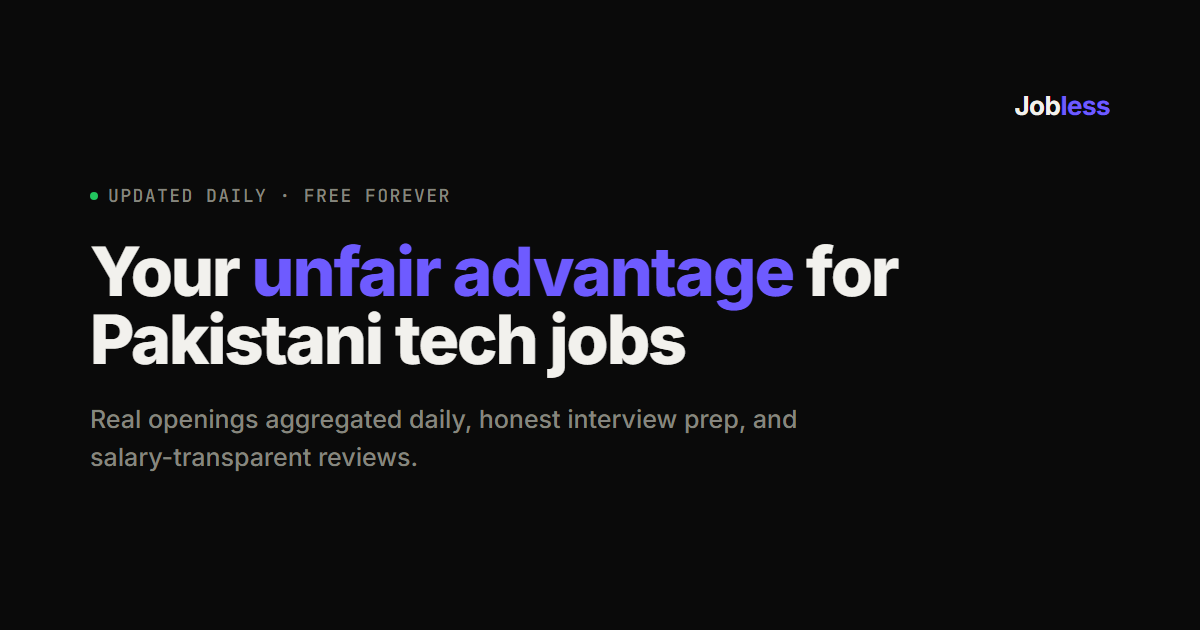
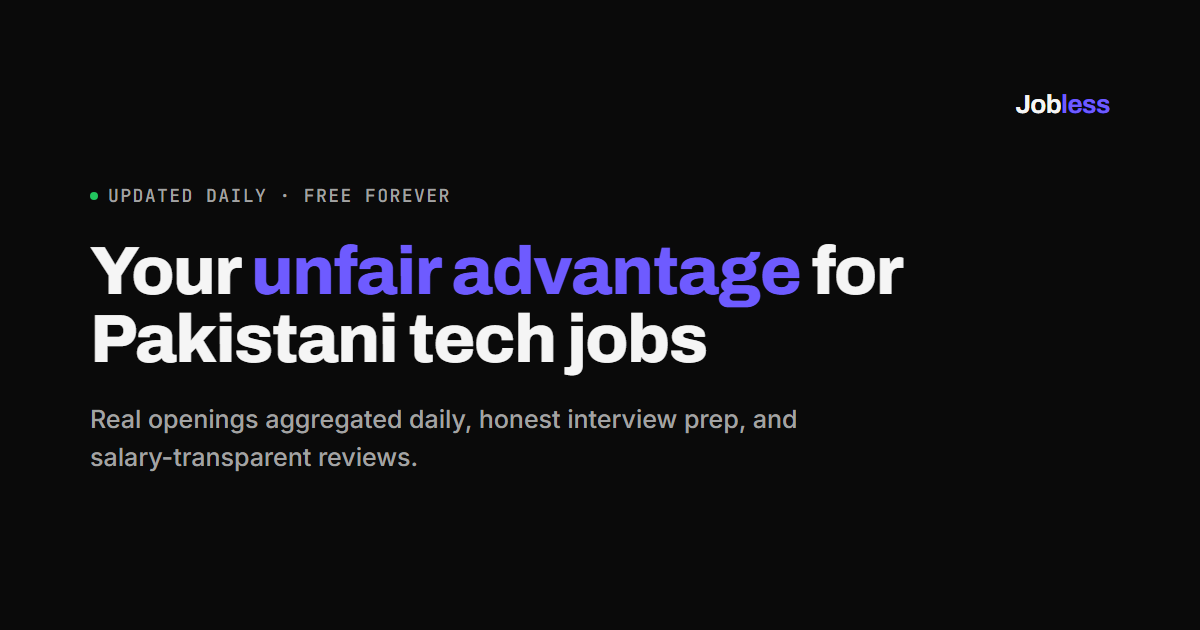
Adapt eden.so's elevation/shadow/type system into Jobless (#70)
Deep-dived eden.so's actual compiled CSS (not screenshots-only) to pull
real token values, then adapted the discipline behind them - stepped
gray surfaces, soft multi-layer shadows, generous radius, and a
display/body font pairing - into Jobless's own design, keeping
Jobless's own violet accent and the list/panel structures from the
previous redesign pass rather than reverting them.

Tokens (frontend/style.css :root):
- Surfaces step up from the page background again instead of sitting
  flush with it: --bg 0a0a0a (unchanged, already matched eden.so's own
  page color) -> --bg-elevated #111111 -> --card-bg #141414 ->
  --surface #1a1a1a. Text grays brightened to match eden.so's own
  (--muted #a3a3a3, new --muted-dim #737373 for de-emphasized text).
- --shadow-sm/md/lg/glow restored to real soft, deep, low-opacity
  multi-layer values (card/feature-card/panel shadows, one with a 1px
  inset top highlight) instead of `none` - every existing
  `box-shadow: var(--shadow-sm)` call site regains depth for free.
- Radius loosened from the tight 4-8px "precise" scale back to a
  generous one: 16-24px on cards, pill stays pill on buttons.
- New --font-display: Archivo, applied via a single `h1, h2 { }` rule
  so every heading site-wide picks it up without per-component edits.
  Inter stays for body/UI, JetBrains Mono for labels/metadata.
- Google Fonts link updated in all 13 hand-written pages plus
  export_pages.py's shared template, so generated job/company pages
[…]

diff --git a/frontend/style.css b/frontend/style.css
@@ -1,16 +1,21 @@
-/* Strict 3-color system: true-black, off-white, and one surgical accent -
-   no gradients, no per-category rainbow. Depth and separation come from
-   hairline alpha borders and flat background-contrast steps, not shadows
-   or filled "card" surfaces - see the --shadow-* tokens below, neutralized
-   to `none` so every existing `box-shadow: var(--shadow-sm)` call site
-   goes flat for free without needing to touch each one individually. */
+/* Stepped-gray elevation system, adapted from eden.so's actual compiled
+   CSS (verified against their source, not guessed from screenshots) -
+   surfaces step up in lightness from the page background rather than
+   sitting flush with it, and depth comes from soft multi-layer shadows
+   plus a 1px inset top highlight, not from hairline borders alone. Radius
+   is generous (16-24px on cards, full pill on buttons) rather than tight.
+   Accent stays Jobless's own violet (real brand identity, not eden.so's -
+   their actual "accent" token is just off-white) but is used with the
+   same restraint: most surfaces stay monochrome gray, color is reserved
+   for things that have earned it. */
 :root {
   color-scheme: dark;
   --bg: #0a0a0a;
-  --bg-elevated: #0a0a0a;
-  --card-bg: #0a0a0a;
-  --fg: #f2f1ed;
-  --muted: #86867f;
+  --bg-elevated: #111111;
+  --card-bg: #141414;
+  --fg: #f5f5f5;
+  --muted: #a3a3a3;
+  --muted-dim: #737373;
   --border: rgba(255, 255, 255, 0.08);
   --border-strong: rgba(255, 255, 255, 0.18);
   --accent: #6e5bff;
@@ -18,25 +23,22 @@
   --accent-dark: #4f3fd1;
   --accent-soft: rgba(110, 91, 255, 0.12);
 
-  /* Tight, editorial radii - small enough to read as "precise" rather than
-     "soft/bubbly". 999px (pill) is still used sparingly for the handful of
-     pill-shaped controls (chips, the load-more button). */
-  --radius-sm: 0.25rem;
-  --radius: 0.375rem;
-  --radius-lg: 0.5rem;
-  --radius-xl: 0.75rem;
+  --radius-sm: 0.5rem;
+  --radius: 0.875rem;
+  --radius-lg: 1.25rem;
+  --radius-xl: 1.5rem;
 
-  --shadow-sm: none;
-  --shadow-md: none;
-  --shadow-lg: none;
-  --shadow-glow: none;
+  --shadow-sm: 0 2px 10px rgba(0, 0, 0, 0.35), 0 18px 40px -22px rgba(0, 0, 0, 0.55);
+  --shadow-md: 0 28px 60px -22px rgba(0, 0, 0, 0.7), 0 3px 10px rgba(0, 0, 0, 0.28);
+  --shadow-lg: inset 0 1px 0 rgba(255, 255, 255, 0.05), 0 30px 80px -40px rgba(0, 0, 0, 0.9);
+  --shadow-glow: 0 8px 30px rgba(110, 91, 255, 0.2);
 
-  /* One step up from --bg, for a surface nested inside a bordered
-     container - subtle enough that hairline borders (not fill color) do
-     the actual work of separating sections. */
-  --surface: #111110;
+  /* One step up from --card-bg, for a surface nested inside an already-
+     elevated container (hover fills, inputs). */
+  --surface: #1a1a1a;
 
   --font-sans: "Inter", -apple-system, BlinkMacSystemFont, "Segoe UI", Roboto, sans-serif;
+  --font-display: "Archivo", var(--font-sans);
   --font-mono: "JetBrains Mono", ui-monospace, "SFMono-Regular", Menlo, monospace;
 
   /* Snappy, slightly overshooting spring curve for every hover/interaction
@@ -262,6 +264,13 @@ header {
   max-width: 720px;
   margin: 0 auto;
   padding: 0 0 1rem;
+}
+
+/* Archivo for every display headline, Inter stays for body/UI copy -
+   eden.so pairs the same two families the same way. */
+h1,
+h2 {
+  font-family: var(--font-display);
 }
 
 h1 {
@@ -558,8 +567,10 @@ h1 {
    supporting context" rather than three interchangeable tiles. */
 .stats-cards {
   display: flex;
+  background: var(--card-bg);
   border: 1px solid var(--border);
   border-radius: var(--radius-lg);
+  box-shadow: var(--shadow-sm);
   overflow: hidden;
 }
 
@@ -680,17 +691,22 @@ h1 {
 
 /* The Prep hub page (frontend/prep.html) - a dense, numbered editorial
    list rather than a 3/4-column grid of boxed topic cards. No per-item
-   background/border/shadow at all; hairline rules between rows and a
-   monospace index number do the work a bordered card used to do. The
-   first and last rows close the list with their own top/bottom rule, so
-   the whole thing reads as one continuous table of contents rather than a
-   stack of separate boxes. */
+   background/border/shadow; hairline rules between rows and a monospace
+   index number do the work a bordered card used to do. The rows sit
+   inside one elevated panel (card-bg + soft shadow) rather than being
+   individually boxed - eden.so's "flat rows inside one elevated panel"
+   pattern applied to the list structure from the previous pass. */
 .prep-hub-grid {
   max-width: 44rem;
   margin: 0 auto;
   display: flex;
   flex-direction: column;
   counter-reset: prep-topic;
+  background: var(--card-bg);
+  border: 1px solid var(--border);
+  border-radius: var(--radius-lg);
+  padding: 0 1.25rem;
+  box-shadow: var(--shadow-sm);
 }
 
 .prep-hub-card {
@@ -707,8 +723,8 @@ h1 {
   transition: background-color 0.2s var(--ease-spring);
 }
 
-.prep-hub-grid .prep-hub-card:last-child {
-  border-bottom: 1px solid var(--border);
+.prep-hub-card:first-child {
+  border-top: none;
 }
 
 .prep-hub-card::before {
@@ -1470,14 +1486,21 @@ select {
 .job-list {
   list-style: none;
   margin: 0;
-  padding: 0;
-  border-top: 1px solid var(--border);
+  padding: 0 1.25rem;
+  background: var(--card-bg);
+  border: 1px solid var(--border);
+  border-radius: var(--radius-lg);
+  box-shadow: var(--shadow-sm);
 }
 
 .job-card {
   border-bottom: 1px solid var(--border);
   padding: 1.1rem 0.25rem;
   transition: background-color 0.2s var(--ease-spring);
+}
+
+.job-card:last-child {
+  border-bottom: none;
 }
 
 .job-card:hover {

diff --git a/frontend/prep/by-role.html b/frontend/prep/by-role.html
@@ -19,7 +19,7 @@
   <link rel="icon" type="image/svg+xml" href="../favicon.svg" />
   <link rel="preconnect" href="https://fonts.googleapis.com" />
   <link rel="preconnect" href="https://fonts.gstatic.com" crossorigin />
-  <link href="https://fonts.googleapis.com/css2?family=Inter:wght@400;500;600;700;800&family=JetBrains+Mono:wght@400;500;600&display=swap" rel="stylesheet" />
+  <link href="https://fonts.googleapis.com/css2?family=Archivo:wght@600;700;800&family=Inter:wght@400;500;600;700;800&family=JetBrains+Mono:wght@400;500;600&display=swap" rel="stylesheet" />
   <link rel="stylesheet" href="../style.css" />
 </head>
 <body>

diff --git a/frontend/prep/cold-email.html b/frontend/prep/cold-email.html
@@ -19,7 +19,7 @@
   <link rel="icon" type="image/svg+xml" href="../favicon.svg" />
   <link rel="preconnect" href="https://fonts.googleapis.com" />
   <link rel="preconnect" href="https://fonts.gstatic.com" crossorigin />
-  <link href="https://fonts.googleapis.com/css2?family=Inter:wght@400;500;600;700;800&family=JetBrains+Mono:wght@400;500;600&display=swap" rel="stylesheet" />
+  <link href="https://fonts.googleapis.com/css2?family=Archivo:wght@600;700;800&family=Inter:wght@400;500;600;700;800&family=JetBrains+Mono:wght@400;500;600&display=swap" rel="stylesheet" />
   <link rel="stylesheet" href="../style.css" />
 </head>
 <body>

diff --git a/frontend/prep/companies.html b/frontend/prep/companies.html
@@ -19,7 +19,7 @@
   <link rel="icon" type="image/svg+xml" href="../favicon.svg" />
   <link rel="preconnect" href="https://fonts.googleapis.com" />
   <link rel="preconnect" href="https://fonts.gstatic.com" crossorigin />
-  <link href="https://fonts.googleapis.com/css2?family=Inter:wght@400;500;600;700;800&family=JetBrains+Mono:wght@400;500;600&display=swap" rel="stylesheet" />
+  <link href="https://fonts.googleapis.com/css2?family=Archivo:wght@600;700;800&family=Inter:wght@400;500;600;700;800&family=JetBrains+Mono:wght@400;500;600&display=swap" rel="stylesheet" />
   <link rel="stylesheet" href="../style.css" />
 </head>
 <body>

diff --git a/frontend/prep/dsa.html b/frontend/prep/dsa.html
@@ -19,7 +19,7 @@
   <link rel="icon" type="image/svg+xml" href="../favicon.svg" />
   <link rel="preconnect" href="https://fonts.googleapis.com" />
   <link rel="preconnect" href="https://fonts.gstatic.com" crossorigin />
-  <link href="https://fonts.googleapis.com/css2?family=Inter:wght@400;500;600;700;800&family=JetBrains+Mono:wght@400;500;600&display=swap" rel="stylesheet" />
+  <link href="https://fonts.googleapis.com/css2?family=Archivo:wght@600;700;800&family=Inter:wght@400;500;600;700;800&family=JetBrains+Mono:wght@400;500;600&display=swap" rel="stylesheet" />
   <link rel="stylesheet" href="../style.css" />
 </head>
 <body>

diff --git a/frontend/prep/hr-questions.html b/frontend/prep/hr-questions.html
@@ -19,7 +19,7 @@
   <link rel="icon" type="image/svg+xml" href="../favicon.svg" />
   <link rel="preconnect" href="https://fonts.googleapis.com" />
   <link rel="preconnect" href="https://fonts.gstatic.com" crossorigin />
-  <link href="https://fonts.googleapis.com/css2?family=Inter:wght@400;500;600;700;800&family=JetBrains+Mono:wght@400;500;600&display=swap" rel="stylesheet" />
+  <link href="https://fonts.googleapis.com/css2?family=Archivo:wght@600;700;800&family=Inter:wght@400;500;600;700;800&family=JetBrains+Mono:wght@400;500;600&display=swap" rel="stylesheet" />
   <link rel="stylesheet" href="../style.css" />
 </head>
 <body>

diff --git a/frontend/prep/notes.html b/frontend/prep/notes.html
@@ -19,7 +19,7 @@
   <link rel="icon" type="image/svg+xml" href="../favicon.svg" />
   <link rel="preconnect" href="https://fonts.googleapis.com" />
   <link rel="preconnect" href="https://fonts.gstatic.com" crossorigin />
-  <link href="https://fonts.googleapis.com/css2?family=Inter:wght@400;500;600;700;800&family=JetBrains+Mono:wght@400;500;600&display=swap" rel="stylesheet" />
+  <link href="https://fonts.googleapis.com/css2?family=Archivo:wght@600;700;800&family=Inter:wght@400;500;600;700;800&family=JetBrains+Mono:wght@400;500;600&display=swap" rel="stylesheet" />
   <link rel="stylesheet" href="../style.css" />
 </head>
 <body>

diff --git a/frontend/prep/resume.html b/frontend/prep/resume.html
@@ -19,7 +19,7 @@
   <link rel="icon" type="image/svg+xml" href="../favicon.svg" />
   <link rel="preconnect" href="https://fonts.googleapis.com" />
   <link rel="preconnect" href="https://fonts.gstatic.com" crossorigin />
-  <link href="https://fonts.googleapis.com/css2?family=Inter:wght@400;500;600;700;800&family=JetBrains+Mono:wght@400;500;600&display=swap" rel="stylesheet" />
+  <link href="https://fonts.googleapis.com/css2?family=Archivo:wght@600;700;800&family=Inter:wght@400;500;600;700;800&family=JetBrains+Mono:wght@400;500;600&display=swap" rel="stylesheet" />
   <link rel="stylesheet" href="../style.css" />
 </head>
 <body>

diff --git a/frontend/prep/sql.html b/frontend/prep/sql.html
@@ -19,7 +19,7 @@
   <link rel="icon" type="image/svg+xml" href="../favicon.svg" />
   <link rel="preconnect" href="https://fonts.googleapis.com" />
   <link rel="preconnect" href="https://fonts.gstatic.com" crossorigin />
-  <link href="https://fonts.googleapis.com/css2?family=Inter:wght@400;500;600;700;800&family=JetBrains+Mono:wght@400;500;600&display=swap" rel="stylesheet" />
+  <link href="https://fonts.googleapis.com/css2?family=Archivo:wght@600;700;800&family=Inter:wght@400;500;600;700;800&family=JetBrains+Mono:wght@400;500;600&display=swap" rel="stylesheet" />
   <link rel="stylesheet" href="../style.css" />
 </head>
 <body>

diff --git a/frontend/prep/system-design.html b/frontend/prep/system-design.html
@@ -19,7 +19,7 @@
   <link rel="icon" type="image/svg+xml" href="../favicon.svg" />
   <link rel="preconnect" href="https://fonts.googleapis.com" />
   <link rel="preconnect" href="https://fonts.gstatic.com" crossorigin />
-  <link href="https://fonts.googleapis.com/css2?family=Inter:wght@400;500;600;700;800&family=JetBrains+Mono:wght@400;500;600&display=swap" rel="stylesheet" />
+  <link href="https://fonts.googleapis.com/css2?family=Archivo:wght@600;700;800&family=Inter:wght@400;500;600;700;800&family=JetBrains+Mono:wght@400;500;600&display=swap" rel="stylesheet" />
   <link rel="stylesheet" href="../style.css" />
 </head>
 <body>

diff --git a/frontend/about.html b/frontend/about.html
@@ -19,7 +19,7 @@
   <link rel="icon" type="image/svg+xml" href="favicon.svg" />
   <link rel="preconnect" href="https://fonts.googleapis.com" />
   <link rel="preconnect" href="https://fonts.gstatic.com" crossorigin />
-  <link href="https://fonts.googleapis.com/css2?family=Inter:wght@400;500;600;700;800&family=JetBrains+Mono:wght@400;500;600&display=swap" rel="stylesheet" />
+  <link href="https://fonts.googleapis.com/css2?family=Archivo:wght@600;700;800&family=Inter:wght@400;500;600;700;800&family=JetBrains+Mono:wght@400;500;600&display=swap" rel="stylesheet" />
   <link rel="stylesheet" href="style.css" />
 </head>
 <body>

diff --git a/frontend/index.html b/frontend/index.html
@@ -19,7 +19,7 @@
   <link rel="icon" type="image/svg+xml" href="favicon.svg" />
   <link rel="preconnect" href="https://fonts.googleapis.com" />
   <link rel="preconnect" href="https://fonts.gstatic.com" crossorigin />
-  <link href="https://fonts.googleapis.com/css2?family=Inter:wght@400;500;600;700;800&family=JetBrains+Mono:wght@400;500;600&display=swap" rel="stylesheet" />
+  <link href="https://fonts.googleapis.com/css2?family=Archivo:wght@600;700;800&family=Inter:wght@400;500;600;700;800&family=JetBrains+Mono:wght@400;500;600&display=swap" rel="stylesheet" />
   <link rel="stylesheet" href="style.css" />
 </head>
 <body>
